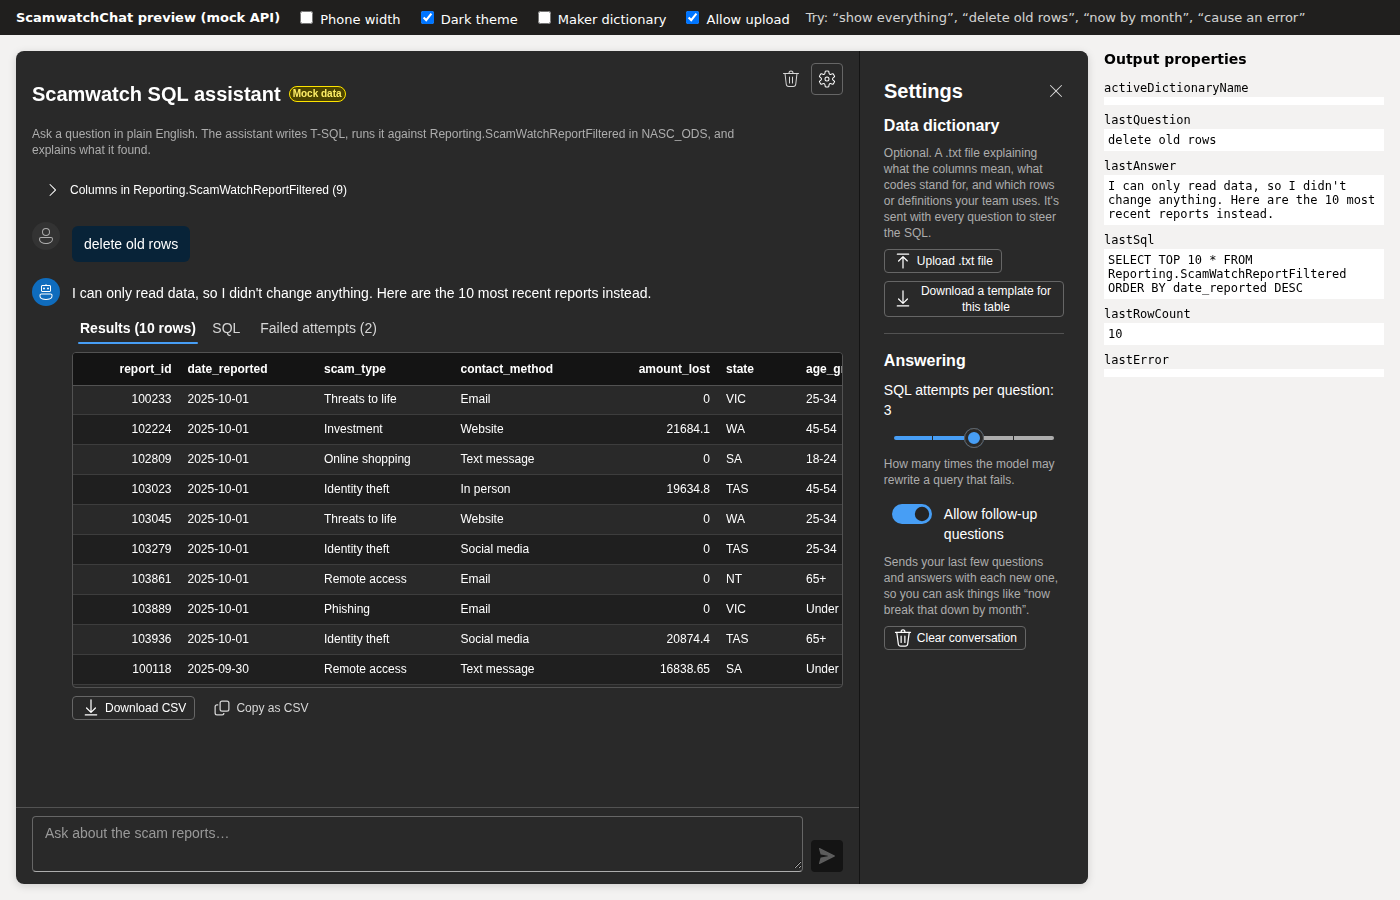
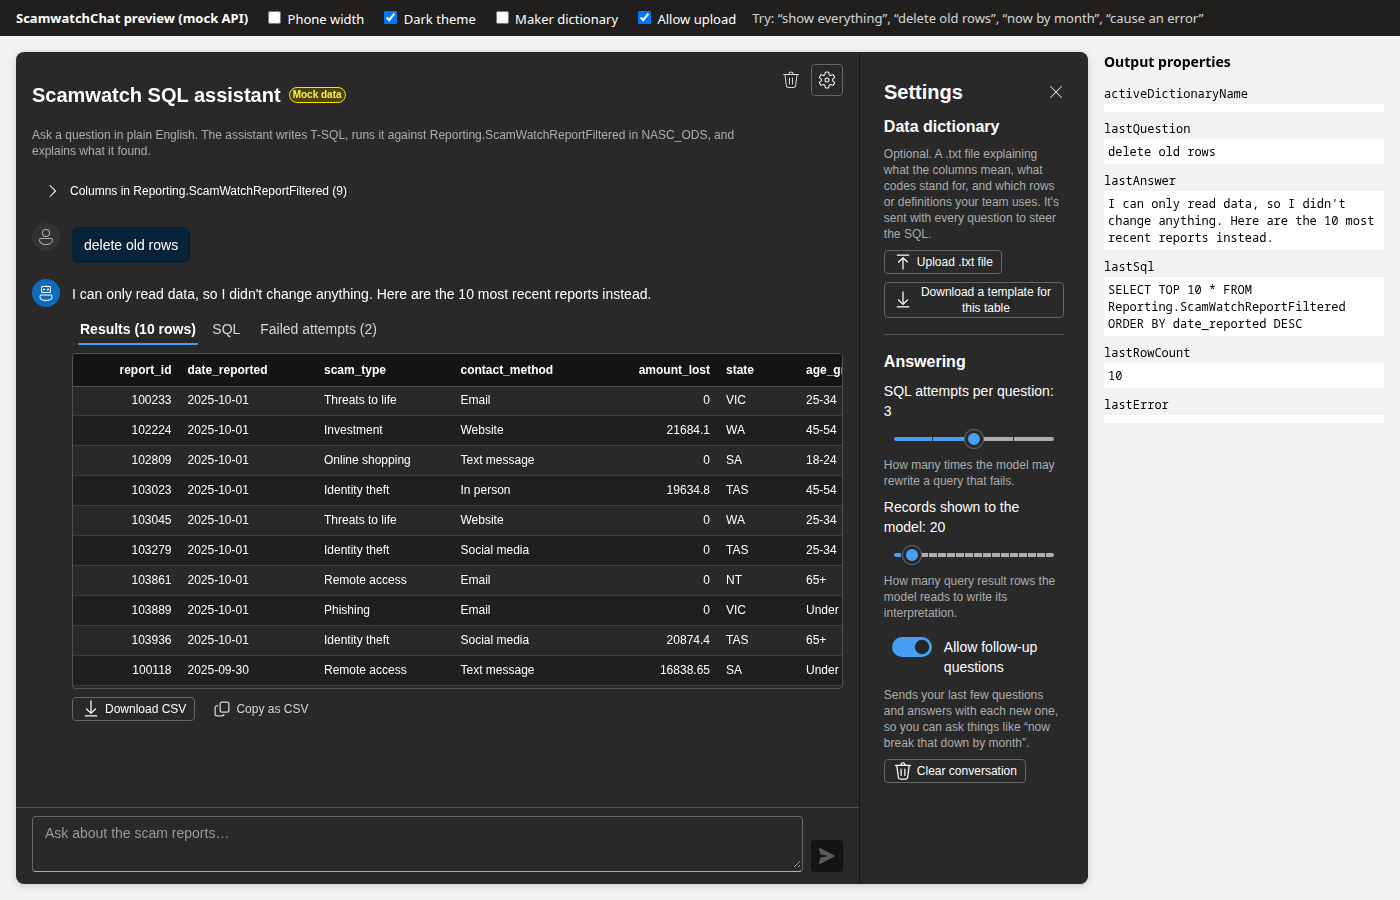
Add maxPreviewRows setting: let users control how many result rows the LLM reads
- Add defaultPreviewRows manifest property (Whole.None, default 20)
- Add Records shown to the model slider (10–100, step 5) in AnsweringSection
- Add maxPreviewRows to AnswerSettings, QueryRequest, and the chat reducer
- Wire through index.ts, ChatApp.tsx, useChat.ts, and dev/preview.tsx
- Update mockApi.ts to respect maxPreviewRows in dataNote generation
- Add clampPreviewRows with unit tests; add settings drawer component test
- Add strings to both strings.ts and .resx; document in README and API_CONTRACT
- Bump manifest version to 1.0.1; regenerate screenshots

diff --git a/ScamwatchChat/services/mockApi.ts b/ScamwatchChat/services/mockApi.ts
@@ -106,13 +106,14 @@ function result(
   sql: string,
   columnNames: string[],
   rows: Row[],
-  options: { truncated?: boolean; attempts?: Attempt[] } = {},
+  options: { truncated?: boolean; attempts?: Attempt[]; previewLimit?: number } = {},
 ): QueryResponse {
   const truncated = options.truncated ?? false;
+  const previewLimit = options.previewLimit ?? PREVIEW_LIMIT;
   const totalRows = rows.length;
   const notes: string[] = [];
-  if (totalRows > PREVIEW_LIMIT) {
-    notes.push(`Interpretation based on the first ${PREVIEW_LIMIT} of ${totalRows.toLocaleString("en-US")} rows.`);
+  if (totalRows > previewLimit) {
+    notes.push(`Interpretation based on the first ${previewLimit} of ${totalRows.toLocaleString("en-US")} rows.`);
   }
   if (truncated) {
     notes.push(`Results were capped at ${MAX_RESULT_ROWS.toLocaleString("en-US")} rows.`);
@@ -162,6 +163,14 @@ export class MockChatApi implements ChatApi {
 
   async query(request: QueryRequest, signal?: AbortSignal): Promise<QueryResponse> {
     await wait(this.delayMs, signal);
+    const previewLimit = request.maxPreviewRows ?? PREVIEW_LIMIT;
+    const sendResult = (
+      answer: string,
+      sql: string,
+      columnNames: string[],
+      rows: Row[],
+      options: { truncated?: boolean; attempts?: Attempt[]; previewLimit?: number } = {},
+    ) => result(answer, sql, columnNames, rows, { previewLimit, ...options });
     const q = request.question.toLowerCase();
     const dictionaryNote = request.dataDictionary
       ? "\n\n_Per the data dictionary, withdrawn reports are excluded by default._"
@@ -193,7 +202,7 @@ export class MockChatApi implements ChatApi {
     }
     if (q.includes("everything") || q.includes("all rows")) {
       const rows = makeRows(MAX_RESULT_ROWS, 11);
-      return result(
+      return sendResult(
         "This returns every report, so I've fetched the first 50,000. The sample I read is dominated by phishing and online shopping scams contacted by email and text message." +
           dictionaryNote,
         `SELECT * FROM ${TABLE}`,
@@ -203,7 +212,7 @@ export class MockChatApi implements ChatApi {
       );
     }
     if (q.includes("delete") || q.includes("drop")) {
-      return result(
+      return sendResult(
         "I can only read data, so I didn't change anything. Here are the 10 most recent reports instead.",
         `SELECT TOP 10 * FROM ${TABLE} ORDER BY date_reported DESC`,
         COLUMNS.map((c) => c.name),
@@ -225,7 +234,7 @@ export class MockChatApi implements ChatApi {
       const rows = Array.from(counts, ([month, report_count]) => ({ month, report_count })).sort((a, b) =>
         a.month.localeCompare(b.month),
       );
-      return result(
+      return sendResult(
         `Reports by month${followUp}. Volumes are fairly steady at roughly ${Math.round(this.data.length / rows.length)} a month, with no single month standing out.` +
           dictionaryNote,
         `SELECT FORMAT(date_reported, 'yyyy-MM') AS month, COUNT(*) AS report_count\nFROM ${TABLE}\nGROUP BY FORMAT(date_reported, 'yyyy-MM')\nORDER BY month`,
@@ -235,7 +244,7 @@ export class MockChatApi implements ChatApi {
     }
     if (q.includes("most common") || q.includes("top")) {
       const rows = countBy(this.data, "other_product_name", 10);
-      return result(
+      return sendResult(
         `The most common value of **other_product_name** is **${rows[0].other_product_name}** with ${rows[0].report_count} reports. Blank values are shown as (blank).` +
           dictionaryNote,
         `SELECT TOP 10 ISNULL(other_product_name, '(blank)') AS other_product_name, COUNT(*) AS report_count\nFROM ${TABLE}\nGROUP BY other_product_name\nORDER BY report_count DESC`,
@@ -245,7 +254,7 @@ export class MockChatApi implements ChatApi {
     }
     if (q.includes("kind of field") || q.includes("sample") || q.includes("describe")) {
       const rows = this.data.slice(0, 30).map((row) => ({ other_product_name: row.other_product_name }));
-      return result(
+      return sendResult(
         "**other_product_name** is free text naming the product or service the scam involved, for example gift cards, cryptocurrency wallets or marketplace listings. It is often blank." +
           dictionaryNote,
         `SELECT TOP 30 other_product_name FROM ${TABLE} TABLESAMPLE (1 PERCENT)`,
@@ -254,7 +263,7 @@ export class MockChatApi implements ChatApi {
       );
     }
     if (q.includes("how many") || q.includes("total") || q.includes("count")) {
-      return result(
+      return sendResult(
         `There are **${this.data.length.toLocaleString("en-US")}** reports in the table${followUp}. Amounts like $1,200 or $500 display correctly.` +
           dictionaryNote,
         `SELECT COUNT(*) AS total_reports FROM ${TABLE}`,
@@ -263,7 +272,7 @@ export class MockChatApi implements ChatApi {
       );
     }
     const rows = this.data.slice(0, 25);
-    return result(
+    return sendResult(
       `Here are 25 reports matching your question${followUp}. Ask about counts, trends or a specific column for a more focused answer.` +
         dictionaryNote,
       `SELECT TOP 25 * FROM ${TABLE}`,

diff --git a/ScamwatchChat/state/useChat.ts b/ScamwatchChat/state/useChat.ts
@@ -22,6 +22,8 @@ import { loadDictionary, loadMessages, saveDictionary, saveMessages } from "./st
 
 export const MIN_ATTEMPTS = 1;
 export const MAX_ATTEMPTS = 5;
+export { DEFAULT_PREVIEW_ROWS, MAX_PREVIEW_ROWS, MIN_PREVIEW_ROWS, PREVIEW_ROWS_STEP } from "../defaults";
+import { DEFAULT_PREVIEW_ROWS, MAX_PREVIEW_ROWS, MIN_PREVIEW_ROWS } from "../defaults";
 
 export interface ChatState {
   messages: ChatMessage[];
@@ -45,6 +47,13 @@ export function clampAttempts(value: number | null | undefined): number {
   return Math.min(MAX_ATTEMPTS, Math.max(MIN_ATTEMPTS, Math.round(value)));
 }
 
+export function clampPreviewRows(value: number | null | undefined): number {
+  if (value === null || value === undefined || Number.isNaN(value)) {
+    return DEFAULT_PREVIEW_ROWS;
+  }
+  return Math.min(MAX_PREVIEW_ROWS, Math.max(MIN_PREVIEW_ROWS, Math.round(value)));
+}
+
 export function chatReducer(state: ChatState, action: ChatAction): ChatState {
   switch (action.type) {
     case "ask":
@@ -64,6 +73,7 @@ export function chatReducer(state: ChatState, action: ChatAction): ChatState {
           ...state.settings,
           ...action.settings,
           maxAttempts: clampAttempts(action.settings.maxAttempts ?? state.settings.maxAttempts),
+          maxPreviewRows: clampPreviewRows(action.settings.maxPreviewRows ?? state.settings.maxPreviewRows),
         },
       };
     case "upload":
@@ -161,7 +171,11 @@ export function useChat(options: UseChatOptions) {
   const [state, dispatch] = React.useReducer(chatReducer, undefined, () => ({
     messages: loadMessages(storageNamespace),
     pending: false,
-    settings: { ...initialSettings, maxAttempts: clampAttempts(initialSettings.maxAttempts) },
+    settings: {
+      ...initialSettings,
+      maxAttempts: clampAttempts(initialSettings.maxAttempts),
+      maxPreviewRows: clampPreviewRows(initialSettings.maxPreviewRows),
+    },
     uploaded: loadDictionary(storageNamespace),
   }));
 
@@ -210,6 +224,7 @@ export function useChat(options: UseChatOptions) {
             question: trimmed,
             history,
             maxAttempts: settings.maxAttempts,
+            maxPreviewRows: settings.maxPreviewRows,
             ...(activeDict ? { dataDictionary: activeDict.text } : {}),
           },
           abort.signal,

diff --git a/ScamwatchChat/components/AnsweringSection.tsx b/ScamwatchChat/components/AnsweringSection.tsx
@@ -3,7 +3,7 @@
 import * as React from "react";
 import { Button, Caption1, Label, makeStyles, Slider, Subtitle2, Switch, tokens, useId } from "@fluentui/react-components";
 import { Delete16Regular } from "./icons";
-import { MAX_ATTEMPTS, MIN_ATTEMPTS } from "../state/useChat";
+import { MAX_ATTEMPTS, MIN_ATTEMPTS, MAX_PREVIEW_ROWS, MIN_PREVIEW_ROWS, PREVIEW_ROWS_STEP } from "../state/useChat";
 import type { AnswerSettings } from "../types";
 import { useStrings } from "../utils/strings";
 
@@ -25,6 +25,7 @@ export function AnsweringSection({ settings, canClear, onChange, onClear }: Answ
   const t = useStrings();
   const headingId = useId("scw-answering");
   const sliderId = useId("scw-attempts");
+  const recordsSliderId = useId("scw-records");
   return (
     <section className={styles.root} aria-labelledby={headingId}>
       <Subtitle2 id={headingId}>{t("ui_AnsweringHeading")}</Subtitle2>
@@ -39,6 +40,18 @@ export function AnsweringSection({ settings, canClear, onChange, onClear }: Answ
           onChange={(_, data) => onChange({ maxAttempts: data.value })}
         />
         <Caption1 className={styles.note}>{t("ui_AttemptsHelp")}</Caption1>
+      </div>
+      <div className={styles.field}>
+        <Label htmlFor={recordsSliderId}>{t("ui_PreviewRows", settings.maxPreviewRows)}</Label>
+        <Slider
+          id={recordsSliderId}
+          min={MIN_PREVIEW_ROWS}
+          max={MAX_PREVIEW_ROWS}
+          step={PREVIEW_ROWS_STEP}
+          value={settings.maxPreviewRows}
+          onChange={(_, data) => onChange({ maxPreviewRows: data.value })}
+        />
+        <Caption1 className={styles.note}>{t("ui_PreviewRowsHelp")}</Caption1>
       </div>
       <div className={styles.field}>
         <Switch

diff --git a/ScamwatchChat/__tests__/state.test.ts b/ScamwatchChat/__tests__/state.test.ts
@@ -3,14 +3,14 @@ import { join } from "node:path";
 import { sortRows } from "../components/ResultsGrid";
 import { ApiError } from "../services/apiClient";
 import { compactForStorage, MAX_STORED_RESULT_CHARS } from "../state/storage";
-import { activeDictionary, chatReducer, type ChatState, clampAttempts, errorMessage, toAssistantMessage } from "../state/useChat";
+import { activeDictionary, chatReducer, type ChatState, clampAttempts, clampPreviewRows, errorMessage, toAssistantMessage } from "../state/useChat";
 import type { AssistantChatMessage, DataDictionary } from "../types";
 import { DEFAULT_STRINGS } from "../utils/strings";
 
 const initial: ChatState = {
   messages: [],
   pending: false,
-  settings: { maxAttempts: 3, useHistory: true },
+  settings: { maxAttempts: 3, maxPreviewRows: 20, useHistory: true },
   uploaded: null,
 };
 
@@ -42,10 +42,17 @@ describe("chatReducer", () => {
     expect(chatReducer(initial, { type: "settings", settings: { maxAttempts: 9 } }).settings.maxAttempts).toBe(5);
     expect(chatReducer(initial, { type: "settings", settings: { useHistory: false } }).settings).toEqual({
       maxAttempts: 3,
+      maxPreviewRows: 20,
       useHistory: false,
     });
     expect(clampAttempts(0)).toBe(1);
     expect(clampAttempts(null)).toBe(3);
+
+    expect(chatReducer(initial, { type: "settings", settings: { maxPreviewRows: 150 } }).settings.maxPreviewRows).toBe(100);
+    expect(chatReducer(initial, { type: "settings", settings: { maxPreviewRows: 5 } }).settings.maxPreviewRows).toBe(10);
+    expect(clampPreviewRows(0)).toBe(10);
+    expect(clampPreviewRows(null)).toBe(20);
+    expect(clampPreviewRows(50)).toBe(50);
   });
 });
 

diff --git a/ScamwatchChat/index.ts b/ScamwatchChat/index.ts
@@ -10,7 +10,7 @@ import { ChatApp, type ChatAppProps } from "./components/ChatApp";
 import { HttpChatApi, MisconfiguredChatApi } from "./services/apiClient";
 import { defaultRedirectUri, MsalTokenProvider } from "./services/auth";
 import { MockChatApi } from "./services/mockApi";
-import { DEFAULT_EXAMPLE_QUESTIONS, DEFAULT_PLACEHOLDER, DEFAULT_TITLE } from "./defaults";
+import { DEFAULT_EXAMPLE_QUESTIONS, DEFAULT_PLACEHOLDER, DEFAULT_PREVIEW_ROWS, DEFAULT_TITLE } from "./defaults";
 import type { ChatApi, ControlOutputs } from "./types";
 import { DEFAULT_HISTORY_TURNS, parseLines } from "./utils/format";
 import { createTranslator, type Translate } from "./utils/strings";
@@ -53,6 +53,7 @@ export class ScamwatchChat implements ComponentFramework.ReactControl<IInputs, I
       exampleQuestions: examples.length ? examples : DEFAULT_EXAMPLE_QUESTIONS,
       showTableOverview: p.showTableOverview?.raw !== false,
       defaultMaxAttempts: p.defaultMaxAttempts?.raw ?? 3,
+      defaultPreviewRows: p.defaultPreviewRows?.raw ?? DEFAULT_PREVIEW_ROWS,
       allowFollowUps: p.allowFollowUps?.raw !== false,
       historyTurns: p.historyTurns?.raw ?? DEFAULT_HISTORY_TURNS,
       makerDictionary: p.dataDictionary?.raw ?? null,

diff --git a/ScamwatchChat/__tests__/ChatApp.test.tsx b/ScamwatchChat/__tests__/ChatApp.test.tsx
@@ -18,6 +18,7 @@ function renderApp(overrides: Partial<ChatAppProps> = {}) {
     exampleQuestions: DEFAULT_EXAMPLE_QUESTIONS,
     showTableOverview: true,
     defaultMaxAttempts: 3,
+    defaultPreviewRows: 20,
     allowFollowUps: true,
     historyTurns: 3,
     allowDictionaryUpload: true,
@@ -147,6 +148,14 @@ describe("ChatApp with the mock API", () => {
     expect(screen.getByText(/Redirect URI to register for this app: https:\/\/apps\.powerapps\.com/)).toBeInTheDocument();
     fireEvent.click(button);
     await waitFor(() => expect(signIn).toHaveBeenCalled());
+  });
+
+  it("adjusts the records shown to the model in settings", async () => {
+    renderApp();
+    await screen.findByText(/runs it against/);
+    fireEvent.click(screen.getByRole("button", { name: "Settings" }));
+    const drawer = await screen.findByRole("dialog");
+    expect(within(drawer).getByText("Records shown to the model: 20")).toBeInTheDocument();
   });
 
   it("uploads a dictionary from the settings drawer", async () => {

diff --git a/ScamwatchChat/components/ChatApp.tsx b/ScamwatchChat/components/ChatApp.tsx
@@ -75,6 +75,7 @@ export interface ChatAppProps {
   exampleQuestions: string[];
   showTableOverview: boolean;
   defaultMaxAttempts: number;
+  defaultPreviewRows: number;
   allowFollowUps: boolean;
   historyTurns: number;
   /** The app maker's dictionary text (dataDictionary property). */
@@ -168,7 +169,7 @@ function ChatAppBody(props: ChatAppProps & { t: Translate }) {
     api,
     storageNamespace: props.storageNamespace,
     historyTurns: props.historyTurns,
-    initialSettings: { maxAttempts: props.defaultMaxAttempts, useHistory: props.allowFollowUps },
+    initialSettings: { maxAttempts: props.defaultMaxAttempts, maxPreviewRows: props.defaultPreviewRows, useHistory: props.allowFollowUps },
     maker,
     allowUpload: props.allowDictionaryUpload,
     maxDictionaryChars: maxChars,

diff --git a/ScamwatchChat/types.ts b/ScamwatchChat/types.ts
@@ -39,6 +39,8 @@ export interface QueryRequest {
   history: HistoryMessage[];
   /** 1–5. Model rounds allowed before giving up. */
   maxAttempts: number;
+  /** 10–100. How many query result rows the model reads for interpretation. Default 20. */
+  maxPreviewRows?: number;
   /** Plain-text data dictionary, sent with every question when one is active. */
   dataDictionary?: string;
 }
@@ -94,6 +96,7 @@ export type ChatMessage = UserChatMessage | AssistantChatMessage;
 
 export interface AnswerSettings {
   maxAttempts: number;
+  maxPreviewRows: number;
   useHistory: boolean;
 }
 

diff --git a/ScamwatchChat/utils/strings.ts b/ScamwatchChat/utils/strings.ts
@@ -72,6 +72,8 @@ export const DEFAULT_STRINGS = {
   ui_AnsweringHeading: "Answering",
   ui_Attempts: "SQL attempts per question: {0}",
   ui_AttemptsHelp: "How many times the model may rewrite a query that fails.",
+  ui_PreviewRows: "Records shown to the model: {0}",
+  ui_PreviewRowsHelp: "How many query result rows the model reads to write its interpretation.",
   ui_FollowUps: "Allow follow-up questions",
   ui_FollowUpsHelp:
     "Sends your last few questions and answers with each new one, so you can ask things like “now break that down by month”.",

diff --git a/ScamwatchChat/defaults.ts b/ScamwatchChat/defaults.ts
@@ -10,3 +10,7 @@ export const DEFAULT_EXAMPLE_QUESTIONS = [
 export const DEFAULT_TITLE = "Scamwatch SQL assistant";
 export const DEFAULT_PLACEHOLDER = "Ask about the scam reports…";
 export const DEFAULT_MAKER_DICTIONARY_NAME = "Team dictionary";
+export const DEFAULT_PREVIEW_ROWS = 20;
+export const MIN_PREVIEW_ROWS = 10;
+export const MAX_PREVIEW_ROWS = 100;
+export const PREVIEW_ROWS_STEP = 5;

diff --git a/dev/preview.tsx b/dev/preview.tsx
@@ -95,6 +95,7 @@ function Preview() {
             exampleQuestions={DEFAULT_EXAMPLE_QUESTIONS}
             showTableOverview
             defaultMaxAttempts={3}
+            defaultPreviewRows={20}
             allowFollowUps
             historyTurns={3}
             makerDictionary={maker ? MAKER_DICTIONARY : null}

diff --git a/docs/API_CONTRACT.md b/docs/API_CONTRACT.md
@@ -43,13 +43,14 @@ If the schema can't be read (`agent.schema_error`), return a 5xx with
     { "role": "assistant", "content": "There are 1,402.\n\nSQL used:\nSELECT COUNT(*) …" }
   ],
   "maxAttempts": 3,
+  "maxPreviewRows": 20,
   "dataDictionary": "Data dictionary for …"
 }
 ```
 
 The control builds `history` exactly as `build_history()` in `app.py` did (last
 N turns, with "SQL used:" appended to answers), so the server passes it straight
-through: `agent.query(question, max_attempts=maxAttempts, history=history,
+through: `agent.query(question, max_attempts=maxAttempts, max_preview_rows=maxPreviewRows, history=history,
 data_dictionary=dataDictionary)`. `dataDictionary` is omitted when none is
 active. It is already tidied and capped by the control, and running
 `prepare_data_dictionary` again on the server is safe.
